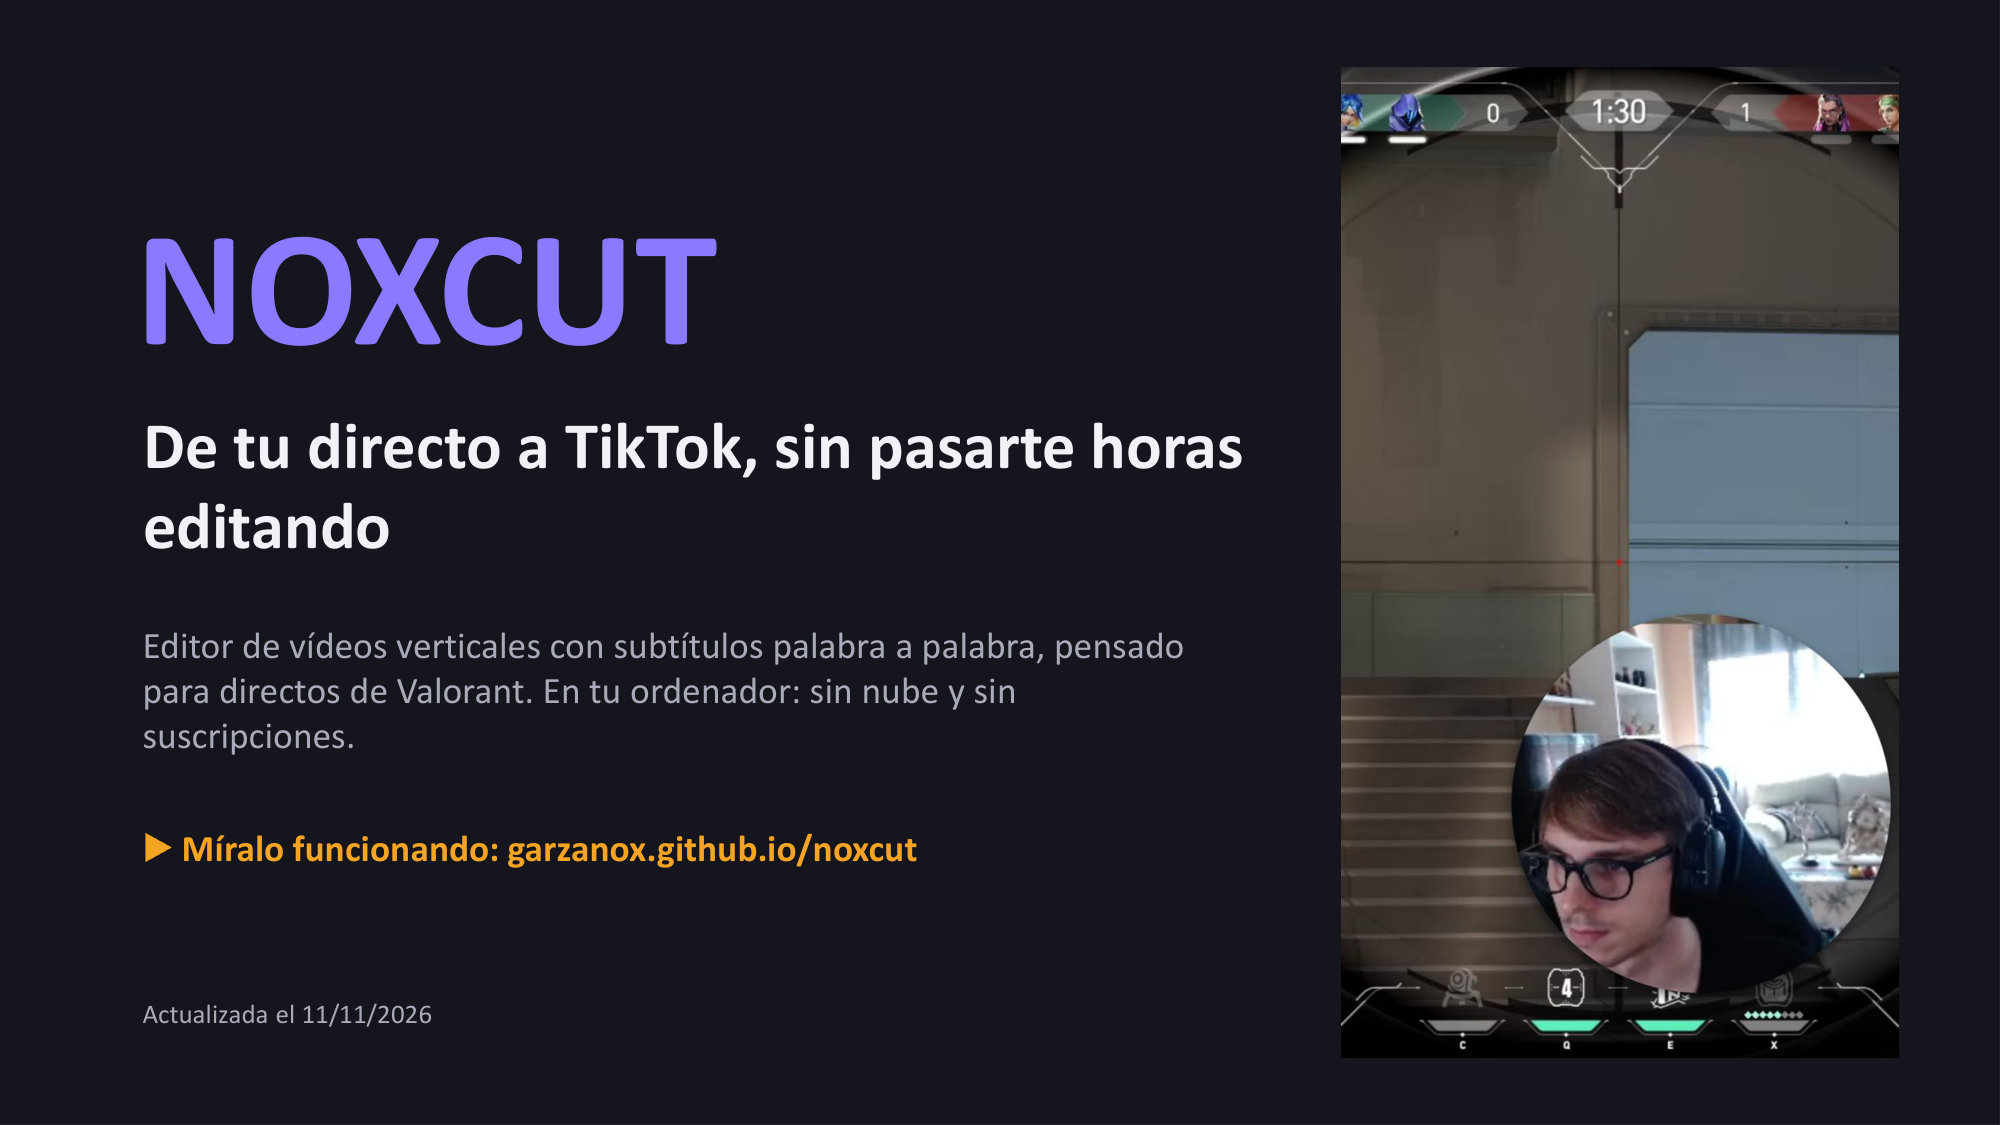
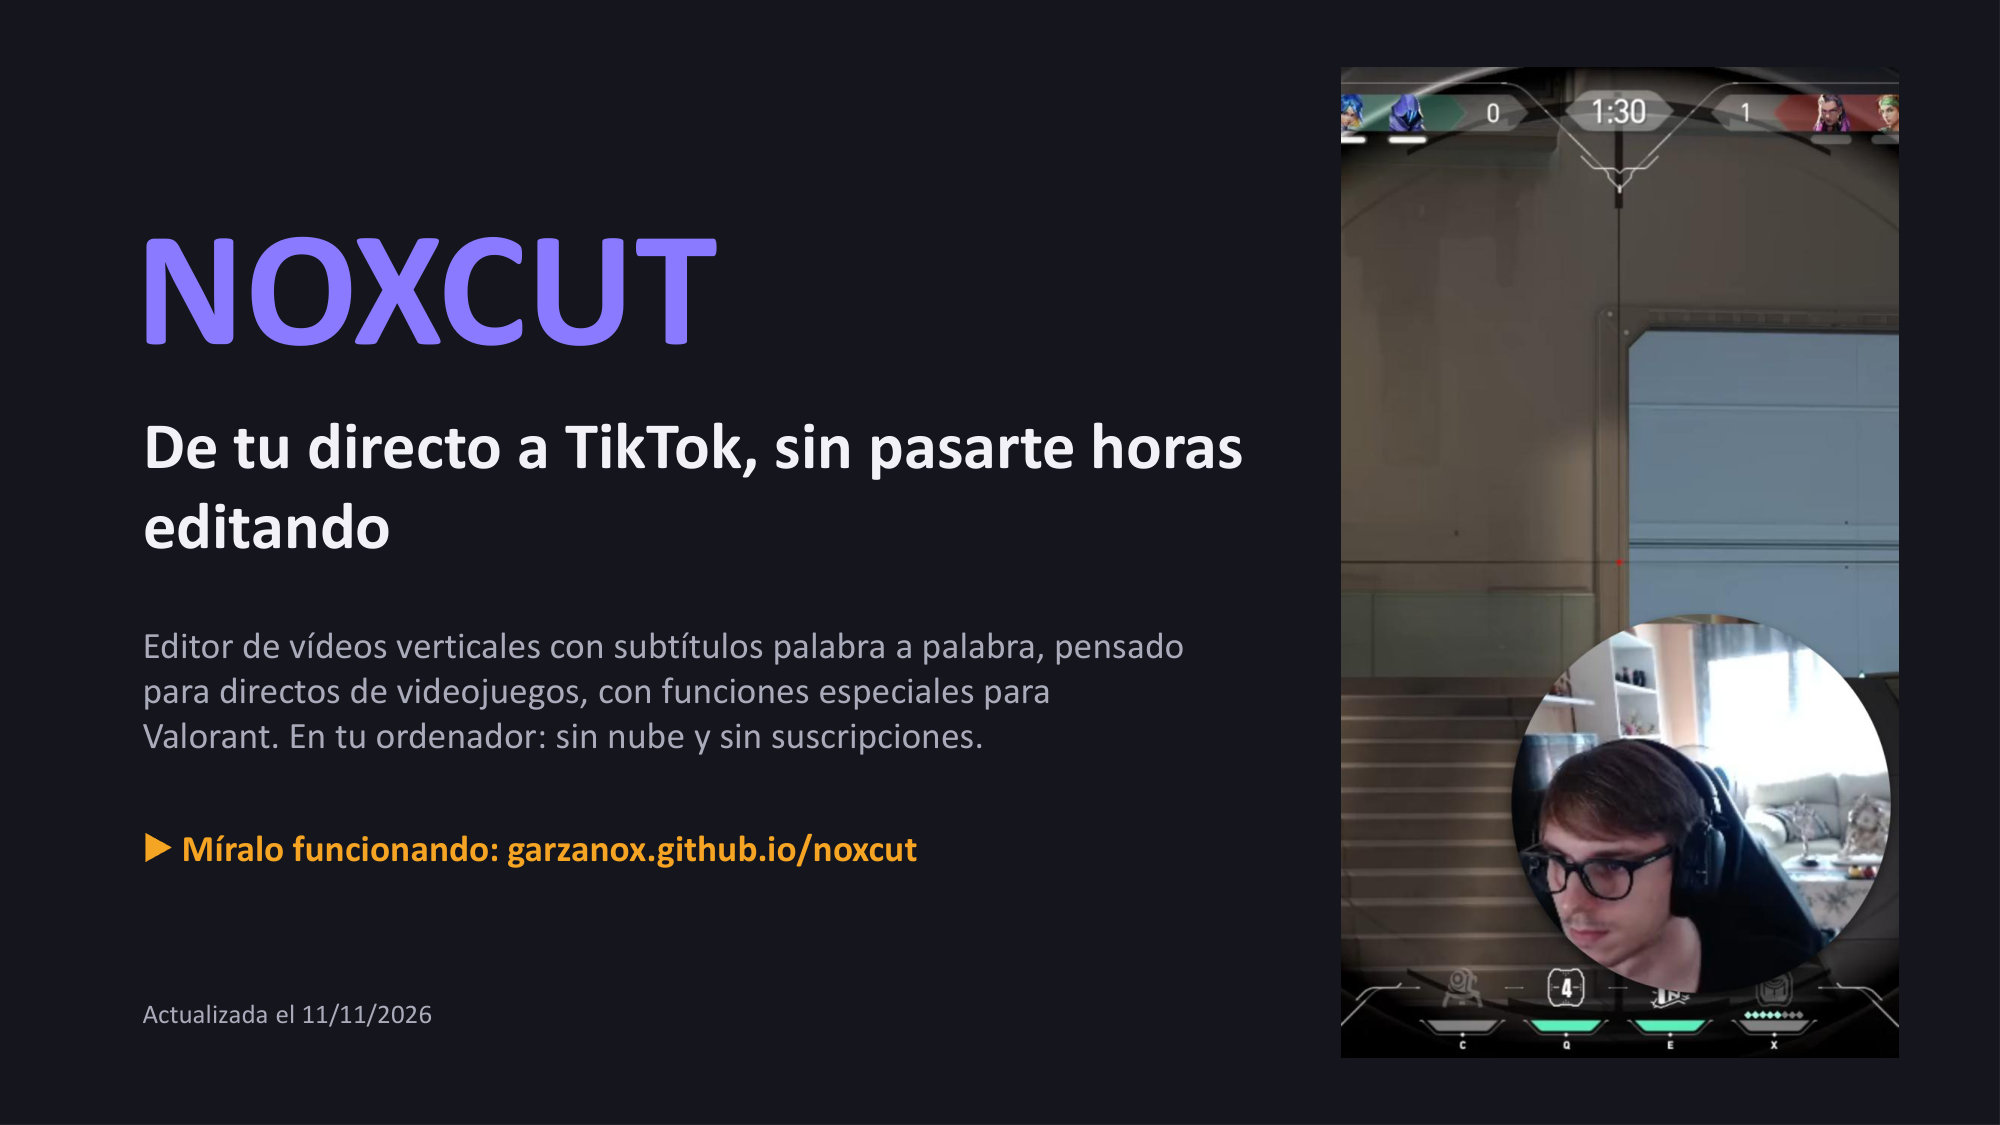
Presentación actualizada (11/11/2026)

Changed region(s): [[0.062, 0.5911, 0.527, 0.6844]]

diff --git a/index.html b/index.html
@@ -67,7 +67,7 @@ button:focus-visible { outline: 2px solid var(--amber); outline-offset: 2px; }
 </header>
 <main>
   <div class="stage" id="stage">
-    <img src="diapositivas/01.jpg?v=a76d044b72" alt="Diapositiva 1: NOXCUT De tu directo a TikTok, sin pasarte horas editando Editor de vídeos verticales con subtítulos palabra a palabra, pensado para directos de Valorant. En tu" class="on">
+    <img src="diapositivas/01.jpg?v=82fdf3a4f0" alt="Diapositiva 1: NOXCUT De tu directo a TikTok, sin pasarte horas editando Editor de vídeos verticales con subtítulos palabra a palabra, pensado para directos de videojuegos, co" class="on">
     <img src="diapositivas/02.jpg?v=a530b6f7e7" alt="Diapositiva 2: EL PROBLEMA Sacar clips de un directo lleva horas Sin NoxCut ●Buscar cada partida en un directo de tres horas. ●Volver a ver horas de directo para encontrar una">
     <img src="diapositivas/03.jpg?v=c74ffb1392" alt="Diapositiva 3: EN UNA DIAPOSITIVA Todo lo que hace Voz Le dices lo que quieres y lo hace delante de ti. Subtítulos Palabra a palabra, karaoke o «pop», con plantillas. Vertical">
     <img src="diapositivas/04.jpg?v=9b55b1e047" alt="Diapositiva 4: INSTRUCCIONES POR VOZ Dile lo que quieres y míralo hacerlo ●«Quédate con las partidas 2 y 3, pon cada una en su secuencia, hazles los cortes y pásalo a vertical">
@@ -88,8 +88,8 @@ button:focus-visible { outline: 2px solid var(--amber); outline-offset: 2px; }
     <img src="diapositivas/19.jpg?v=0bcd146299" alt="Diapositiva 19: ANTES Y DESPUÉS Un lavado de cara Antes Ahora El reproductor antes El reproductor ahora ●Botones agrupados por lo que hacen, con iconos en vez de emojis; «Expor">
     <img src="diapositivas/20.jpg?v=29270023ee" alt="Diapositiva 20: LICENCIAS Cada ordenador, su propia clave Lo que ve quien instala NoxCut la primera vez 1 Instalas NoxCut La primera vez te enseña el código único de tu ordenad">
     <img src="diapositivas/21.jpg?v=6da8a65816" alt="Diapositiva 21: DERECHOS Una obra registrada y protegida © © 2026 Garzanox · Todos los derechos reservados Registrado en Safe Creative Nº 2611067566781 · 06/11/2026 Autor Garza">
-    <img src="diapositivas/22.jpg?v=c9838720f5" alt="Diapositiva 22: CÓMO SE HA HECHO 11 días, 114 avances 30/10 · 14:07 Primera exportación 30/10 · 16:27 Estilos y modo pop 30/10 · 21:02 Montaje 31/10 · 11:30 Generar cortes 31/1">
-    <img src="diapositivas/23.jpg?v=9e2c730770" alt="Diapositiva 23: RESULTADOS En números 11 días del prototipo a editor de vídeo (30/10 a 11/11/2026) 114 avances en la cronología, cada uno probado 13 s para encontrar las 11 par">
+    <img src="diapositivas/22.jpg?v=d1f1bd9971" alt="Diapositiva 22: CÓMO SE HA HECHO 11 días, 115 avances 30/10 · 14:07 Primera exportación 30/10 · 16:27 Estilos y modo pop 30/10 · 21:02 Montaje 31/10 · 11:30 Generar cortes 31/1">
+    <img src="diapositivas/23.jpg?v=4d8c0291ce" alt="Diapositiva 23: RESULTADOS En números 11 días del prototipo a editor de vídeo (30/10 a 11/11/2026) 115 avances en la cronología, cada uno probado 13 s para encontrar las 11 par">
     <img src="diapositivas/24.jpg?v=237bdf0b1e" alt="Diapositiva 24: LA PRÓXIMA VERSIÓN En camino (desde el 11/11) Separar las voces y poner personajes NoxCut reconoce quién habla y pone los subtítulos de cada voz en su pista. Le">
     <img src="diapositivas/25.jpg?v=40b7428dda" alt="Diapositiva 25: MÁS ADELANTE Lo que viene Versión para Linux Lo mismo que en Mac y Windows: instalar y abrir con un clic. Subtítulos acelerados en más gráficas Después de NVIDI">
     <button class="side prev" id="sidePrev" aria-label="Diapositiva anterior"></button>
